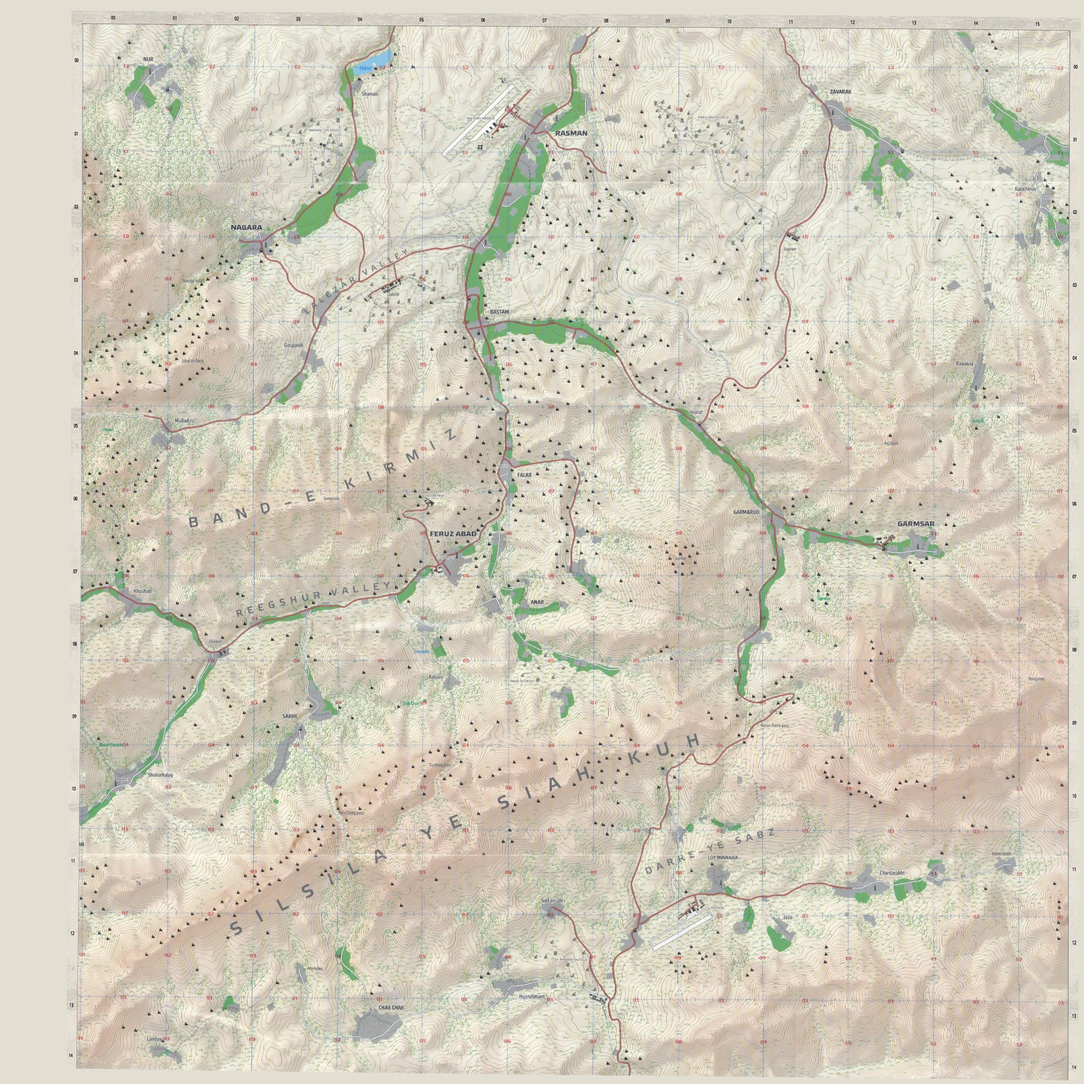
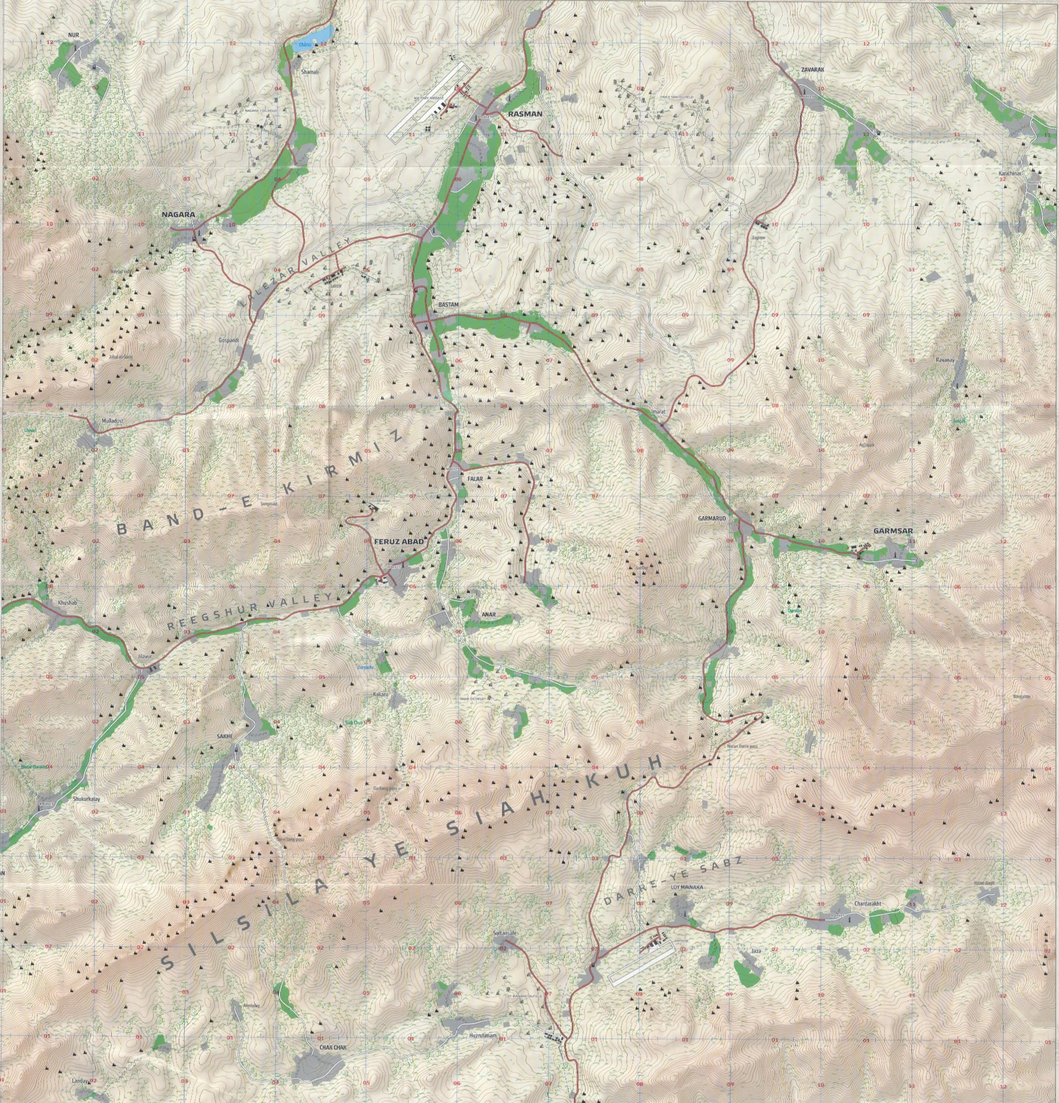
Crop the in-game map to the fully drawn area (no blank strip)
Claude-Session: https://claude.ai/code/session_01ShNcGaLjVBszA2NbtU566Y

diff --git a/index.html b/index.html
@@ -266,16 +266,16 @@ footer .brand{font-family:var(--display);color:var(--sand);font-size:1.1rem;lett
             <button type="button" role="tab" id="tab-tiers" aria-selected="false" aria-controls="view-tiers">Loot tiers &amp; bunker run</button>
           </div>
           <div id="view-traders" role="tabpanel" aria-labelledby="tab-traders">
-          <svg viewBox="0 0 400 400" role="img" aria-label="Satellite map of Takistan, 12.8 km square, with the trader posts and airfields marked">
+          <svg viewBox="29.3 9.77 366.02 381.25" role="img" aria-label="The in-game map of Takistan with the trader posts and airfields marked">
             <defs>
               <pattern id="g" width="31.25" height="31.25" patternUnits="userSpaceOnUse"><path d="M31.25 0H0V31.25" fill="none" stroke="#3a3027" stroke-width=".6"/></pattern>
               <radialGradient id="dune" cx="50%" cy="50%" r="70%"><stop offset="0" stop-color="#2b241b"/><stop offset="1" stop-color="#1a1611"/></radialGradient>
             </defs>
-            <image href="takistan-map.jpg" x="0" y="0" width="400" height="400" preserveAspectRatio="none"/>
-            <rect x="0" y="0" width="400" height="400" fill="#14110e" opacity=".12"/>
+            <image href="takistan-map.jpg" x="29.3" y="9.77" width="366.02" height="381.25" preserveAspectRatio="none"/>
+            <rect x="29.3" y="9.77" width="366.02" height="381.25" fill="#14110e" opacity=".06"/>
             <g font-family="Share Tech Mono, monospace" font-size="9" fill="#a99a85">
-              <text stroke="#14110e" stroke-width="3" paint-order="stroke" fill="#e9dcc6" x="4" y="396">0</text><text stroke="#14110e" stroke-width="3" paint-order="stroke" fill="#e9dcc6" x="190" y="396">6.4 km</text><text stroke="#14110e" stroke-width="3" paint-order="stroke" fill="#e9dcc6" x="356" y="396">12.8 km</text>
-              <text x="372" y="14" font-size="11" fill="#e9dcc6" stroke="#14110e" stroke-width="3" paint-order="stroke">N ↑</text>
+              <path d="M34 384H96.5" stroke="#14110e" stroke-width="4"/><path d="M34 384H96.5M34 380V388M96.5 380V388" stroke="#e9dcc6" stroke-width="1.6"/><text stroke="#14110e" stroke-width="3" paint-order="stroke" fill="#e9dcc6" x="101" y="387">2 km</text>
+              <text x="372" y="22" font-size="11" fill="#e9dcc6" stroke="#14110e" stroke-width="3" paint-order="stroke">N ↑</text>
             </g>
             <!-- points: svgX = x/32, svgY = (12800 - z)/32 -->
             <g font-family="Barlow Condensed, sans-serif" font-weight="700" font-size="12" stroke-width="0"><g stroke="#14110e" stroke-width="2.5" fill="none" opacity=".9"><circle cx="206.4" cy="181.3" r="10"/><circle cx="214" cy="260" r="9"/><circle cx="195" cy="248" r="9"/><circle cx="122.1" cy="107.8" r="10"/><circle cx="57.1" cy="162.6" r="10"/><circle cx="176.5" cy="50.3" r="10"/><circle cx="248.1" cy="340.6" r="10"/></g>

diff --git a/livemap/index.html b/livemap/index.html
@@ -153,8 +153,9 @@ const fmtT=s=>s<60?'<1 min':Math.round(s/60)+' min';
 
 // ---------- map ----------
 const map=L.map('map',{crs:L.CRS.Simple,minZoom:-4,maxZoom:1.5,zoomSnap:.25,zoomDelta:.5,attributionControl:false,maxBounds:[[-1500,-1500],[SIZE+1500,SIZE+1500]]});
-L.imageOverlay('takistan-map.jpg',[[0,0],[SIZE,SIZE]]).addTo(map);
-map.fitBounds([[0,0],[SIZE,SIZE]]);
+const MAPB=[[287.5,937.5],[12487.5,12650]]; // the area the in-game map actually draws
+L.imageOverlay('takistan-map.jpg',MAPB).addTo(map);
+map.fitBounds(MAPB);
 map.on('mousemove',e=>{$('coords').textContent='X '+Math.round(e.latlng.lng)+'  Z '+Math.round(e.latlng.lat)+'  ·  grid '+grid(e.latlng.lng,e.latlng.lat);});
 
 const [roads,towns]=await Promise.all([fetch('roads.json').then(r=>r.json()),fetch('towns.json').then(r=>r.json())]);
